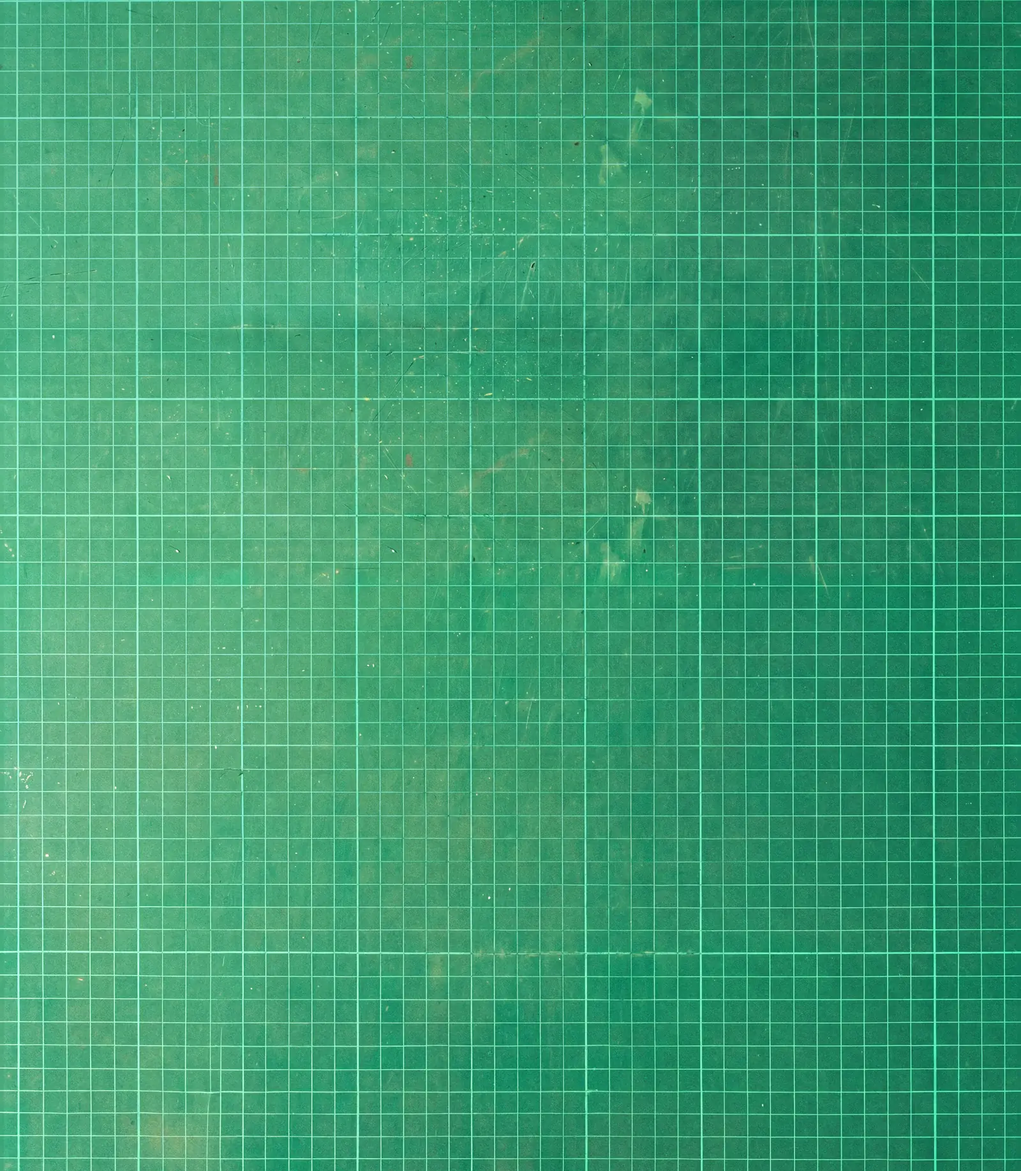
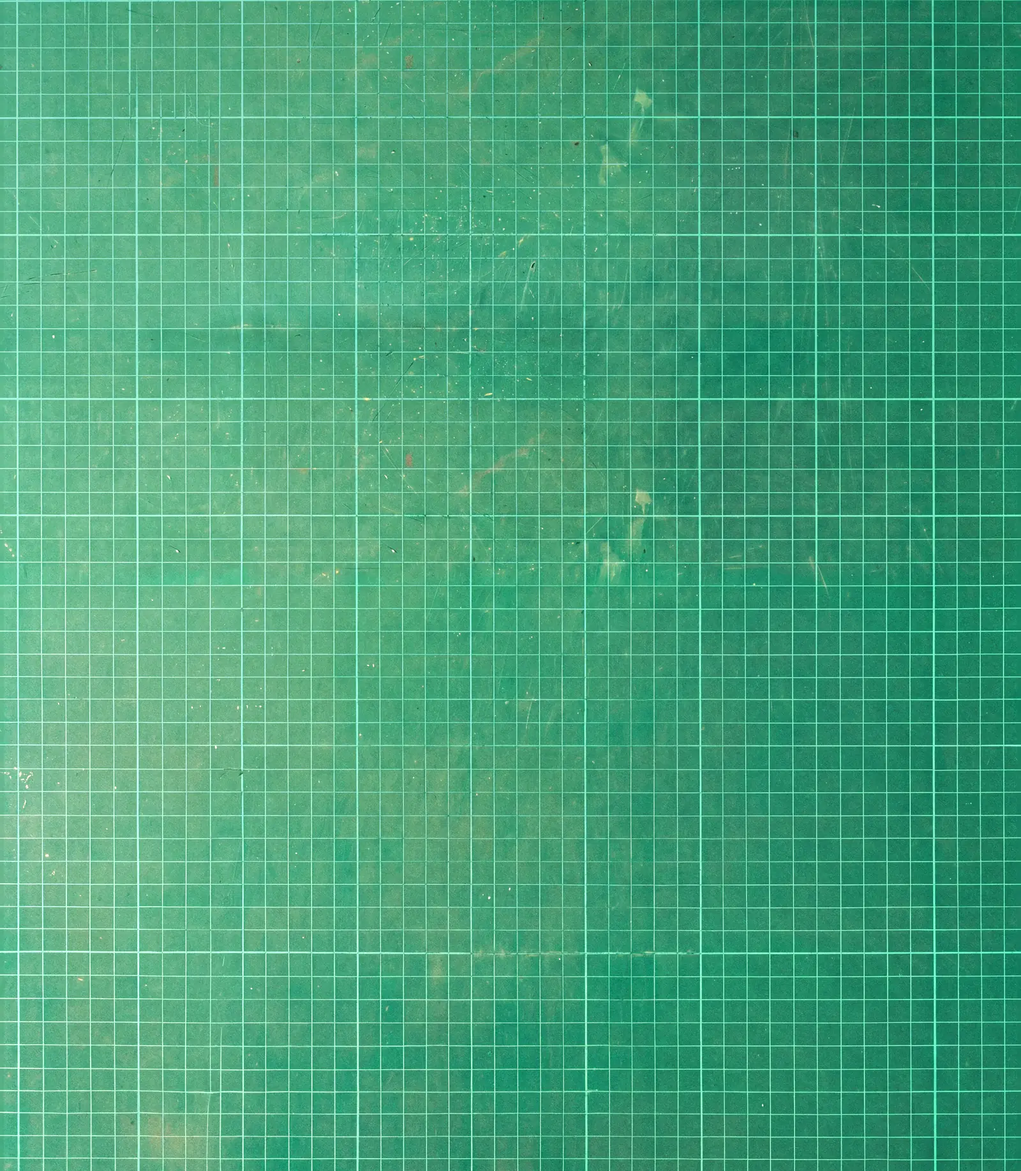
Hello screen to the mockup: the mat's tone, the words' size, the sign's place
The mat is flattened to the mean tone read off Julio's mockup (lighter,
greener) rather than the photo's own middle. The greeting's numbers are
re-read off the same frame at 1680 x 1076: words 8.2vh on a 1.0 line at
-.01em, the sign 29.7vh with its middle a touch under the screen's, a
wider breath either side of it, caps on the sign's top. Every box now
lands within half a percent of the mockup's.

diff --git a/packages/lab/src/hello.tsx b/packages/lab/src/hello.tsx
@@ -51,17 +51,20 @@ export type HelloTuning = {
   wordsTop: number;
 };
 
-// Julio's numbers off the bench, 2026-09-15: the sign a touch bigger
-// and lifted, the words closer in.
+// Read off Julio's mockup of the screen on the mat (2026-09-26, a
+// 1680 x 1076 frame): the words 8.2vh on a 1.0 line, the sign 28.3vh
+// tall (29.7 with the canvas's margins) with its middle a touch under
+// the screen's, a wider breath either side of it — 3.6vw before, 4.9
+// after — and the words' caps on the sign's top.
 const HELLO_DEFAULTS: Readonly<HelloTuning> = Object.freeze({
-  signHeight: 31.5,
-  signX: 0,
-  signY: -3.5,
+  signHeight: 29.7,
+  signX: -0.65,
+  signY: 0.6,
   rowX: 0,
   rowY: 0,
-  gap: 1.2,
-  wordSize: 7.2,
-  wordCap: 5.2,
+  gap: 4.25,
+  wordSize: 8.2,
+  wordCap: 5.25,
   wordsTop: 0.4,
 });
 
@@ -96,7 +99,7 @@ function helloCss(t: HelloTuning): string {
   // The slot's width, vh: its height by the frames' aspect.
   const w = (t.signHeight * SIGN_FRAME.w) / SIGN_FRAME.h;
   return `
-.hello-row { display: flex; align-items: flex-start; justify-content: center; gap: ${n(t.gap)}vw; font-size: min(${n(t.wordSize)}vh, ${n(t.wordCap)}vw); line-height: 1.1; letter-spacing: -.02em; color: #fff; transform: translate(${n(t.rowX)}vw, ${n(t.rowY)}vh); }
+.hello-row { display: flex; align-items: flex-start; justify-content: center; gap: ${n(t.gap)}vw; font-size: min(${n(t.wordSize)}vh, ${n(t.wordCap)}vw); line-height: 1; letter-spacing: -.01em; color: #fff; transform: translate(${n(t.rowX)}vw, ${n(t.rowY)}vh); }
 .hello-words { text-align: right; padding-top: ${n(t.wordsTop)}vh; white-space: nowrap; }
 .hello-sign { flex: none; height: ${n(t.signHeight)}vh; aspect-ratio: ${SIGN_FRAME.w} / ${SIGN_FRAME.h}; margin: 0 ${n(-SIGN_INSET.right * w)}vh 0 ${n(-SIGN_INSET.left * w)}vh; transform: translate(${n(t.signX)}vw, ${n(t.signY)}vh); }
 .hello-sign.is-waiting, .hello-line-slot.is-waiting { visibility: hidden; }

diff --git a/apps/web/src/app/layout.tsx b/apps/web/src/app/layout.tsx
@@ -86,7 +86,7 @@ export const metadata: Metadata = {
 // own green paints first, before the file is in. Three widths, picked by
 // viewport width so a big monitor is not upscaling the small one.
 const MAT = `
-html { background: #3e9d73 url(${asset("/mat/mat-1600.webp")}) top center / 100% auto repeat-y; }
+html { background: #48a27b url(${asset("/mat/mat-1600.webp")}) top center / 100% auto repeat-y; }
 @media (min-width: 1601px) { html { background-image: url(${asset("/mat/mat-2400.webp")}); } }
 @media (min-width: 2401px) { html { background-image: url(${asset("/mat/mat-3200.webp")}); } }
 `;
